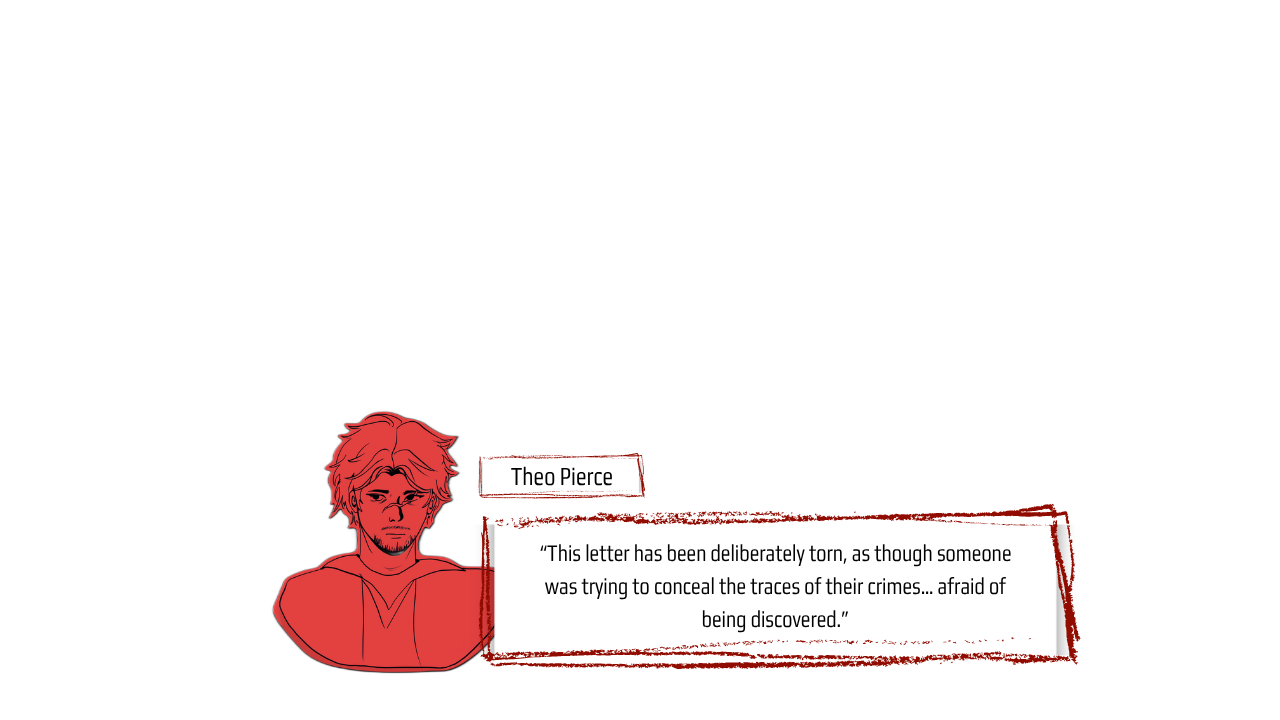
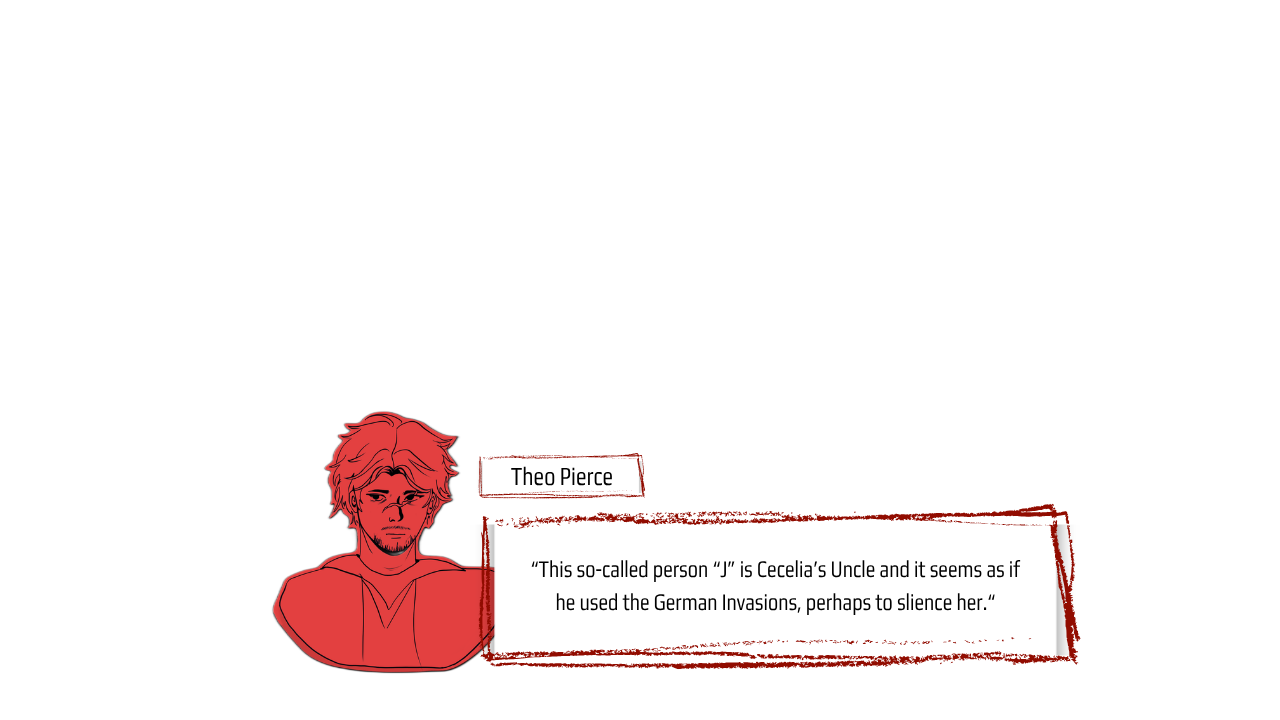
dialogue for j's house done

Changed region(s): [[0.4062, 0.7639, 0.8125, 0.8861]]

diff --git a/core/src/main/java/apcs/VilleFantome/JHouseScreen.java b/core/src/main/java/apcs/VilleFantome/JHouseScreen.java
@@ -31,7 +31,8 @@ public class JHouseScreen implements Screen {
 
     private DialogueManager postEvidence1Dialogue;
     private DialogueManager postEvidence2Dialogue;
-    private DialogueManager finalDialogue1;
+    private DialogueManager postEvidence3Dialogue;
+    private DialogueManager finalDialogue;
     private DialogueManager activeDialogue = null;
 
     private Rectangle playerBounds, exitHitbox, itemHitbox1, itemHitbox2, itemHitbox3;
@@ -75,8 +76,8 @@ public class JHouseScreen implements Screen {
         exitSign = new Texture("exitsign.png");
         pickupPrompt = new Texture("pickupitem.png");
         evidenceTex1 = new Texture("Diary Entry 2.png");
-        evidenceTex2 = new Texture("Cecilia 1.png");
-        evidenceTex3 = new Texture("Cecilia Uncle 1.png");
+        evidenceTex2 = new Texture("Cecilia Uncle 1.png");
+        evidenceTex3 = new Texture("Cecilia 1.png");
 
         player = new Player(-300, -100);
         player.setDrawSize(1000, 1000);
@@ -101,25 +102,32 @@ public class JHouseScreen implements Screen {
             }
         );
 
-        // DIALOGUES 3 & 4 — after evidence 2, then chains into dialogues 5 & 6
+        // DIALOGUES 3 & 4 — after evidence 2
         postEvidence2Dialogue = new DialogueManager(
             new String[] {
                 "JOldhouseDialogue3.png",
-                "JOldhouseDialogue4.png"
+                
             },
             new float[] { 0f, 0f },
             () -> {
-                startDialogue(finalDialogue1); // chains into dialogues 5 & 6
+                activeDialogue = null;
+                state = State.RUNNING;
             }
         );
 
-        // DIALOGUES 5 & 6 — after both evidence picked up
-        finalDialogue1 = new DialogueManager(
-            new String[] {
-                "JOldhouseDialogue5.png",
-                "JOldhouseDialogue6.png"
-            },
+        // DIALOGUE 5 — after evidence 3, chains into dialogue 6
+        postEvidence3Dialogue = new DialogueManager(
+            new String[] { "JOldhouseDialogue4.png", "JOldhouseDialogue5.png" },
             new float[] { 0f, 0f },
+            () -> {
+                startDialogue(finalDialogue); // chains straight into dialogue 6
+            }
+        );
+
+        // DIALOGUE 6 — plays right after dialogue 5
+        finalDialogue = new DialogueManager(
+            new String[] { "JOldhouseDialogue6.png" },
+            new float[] { 0f },
             () -> {
                 activeDialogue = null;
                 state = State.RUNNING;
@@ -165,10 +173,8 @@ public class JHouseScreen implements Screen {
             if (evidenceCooldown > 0.2f && Gdx.input.isKeyJustPressed(Input.Keys.E)) {
                 evidenceCooldown = 0f;
                 if (evidenceToShow == 1) startDialogue(postEvidence1Dialogue);
-                else if (evidenceToShow == 2) {
-                    if (item1PickedUp) startDialogue(postEvidence2Dialogue); // both picked up, chain to final
-                    else startDialogue(postEvidence2Dialogue);
-                }
+                else if (evidenceToShow == 2) startDialogue(postEvidence2Dialogue);
+                else if (evidenceToShow == 3) startDialogue(postEvidence3Dialogue);
             }
         } else if (state == State.DIALOGUE) {
             // handled internally by DialogueManager
@@ -227,7 +233,7 @@ public class JHouseScreen implements Screen {
         if (!item1PickedUp && playerBounds.overlaps(itemHitbox1)) {
             showPickupPrompt = true;
             if (Gdx.input.isKeyJustPressed(Input.Keys.E)) {
-                Inventory.addItem("Diary Entry 3", "Diary Entry 2.png");
+                Inventory.addItem("Cecilia's Letter", "Cecilia 1.png");
                 item1PickedUp = true;
                 evidenceToShow = 1;
                 evidenceCooldown = 0f;
@@ -239,7 +245,7 @@ public class JHouseScreen implements Screen {
         if (!item2PickedUp && playerBounds.overlaps(itemHitbox2)) {
             showPickupPrompt = true;
             if (Gdx.input.isKeyJustPressed(Input.Keys.E)) {
-                Inventory.addItem("Cecilia's Letter", "Cecilia 1.png");
+                Inventory.addItem("Diary Entry 3", "Diary Entry 2.png");
                 item2PickedUp = true;
                 evidenceToShow = 2;
                 evidenceCooldown = 0f;
@@ -278,6 +284,6 @@ public class JHouseScreen implements Screen {
         pickupPrompt.dispose();
         evidenceTex1.dispose(); evidenceTex2.dispose(); evidenceTex3.dispose();
         postEvidence1Dialogue.dispose(); postEvidence2Dialogue.dispose();
-        finalDialogue1.dispose();
+        postEvidence3Dialogue.dispose(); finalDialogue.dispose();
     }
 }
